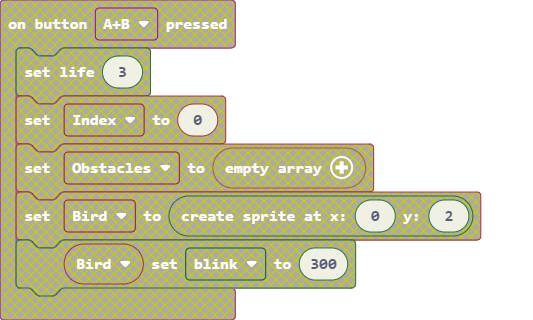
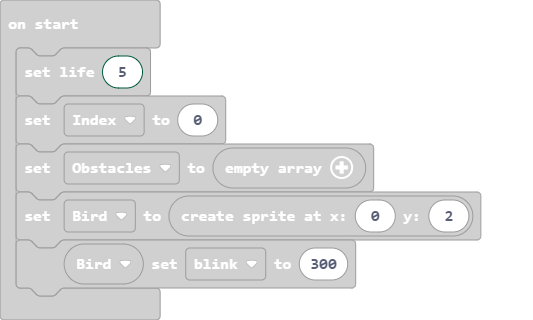
Update main.blocks, main.ts

diff --git a/main.ts b/main.ts
@@ -8,7 +8,7 @@ input.onButtonPressed(Button.B, function () {
 let Empty_Obstacle_Y = 0
 let Ticks = 0
 let Bird: game.LedSprite = null
-game.setLife(3)
+game.setLife(5)
 let Index = 0
 let Obstacles: game.LedSprite[] = []
 Bird = game.createSprite(0, 2)
